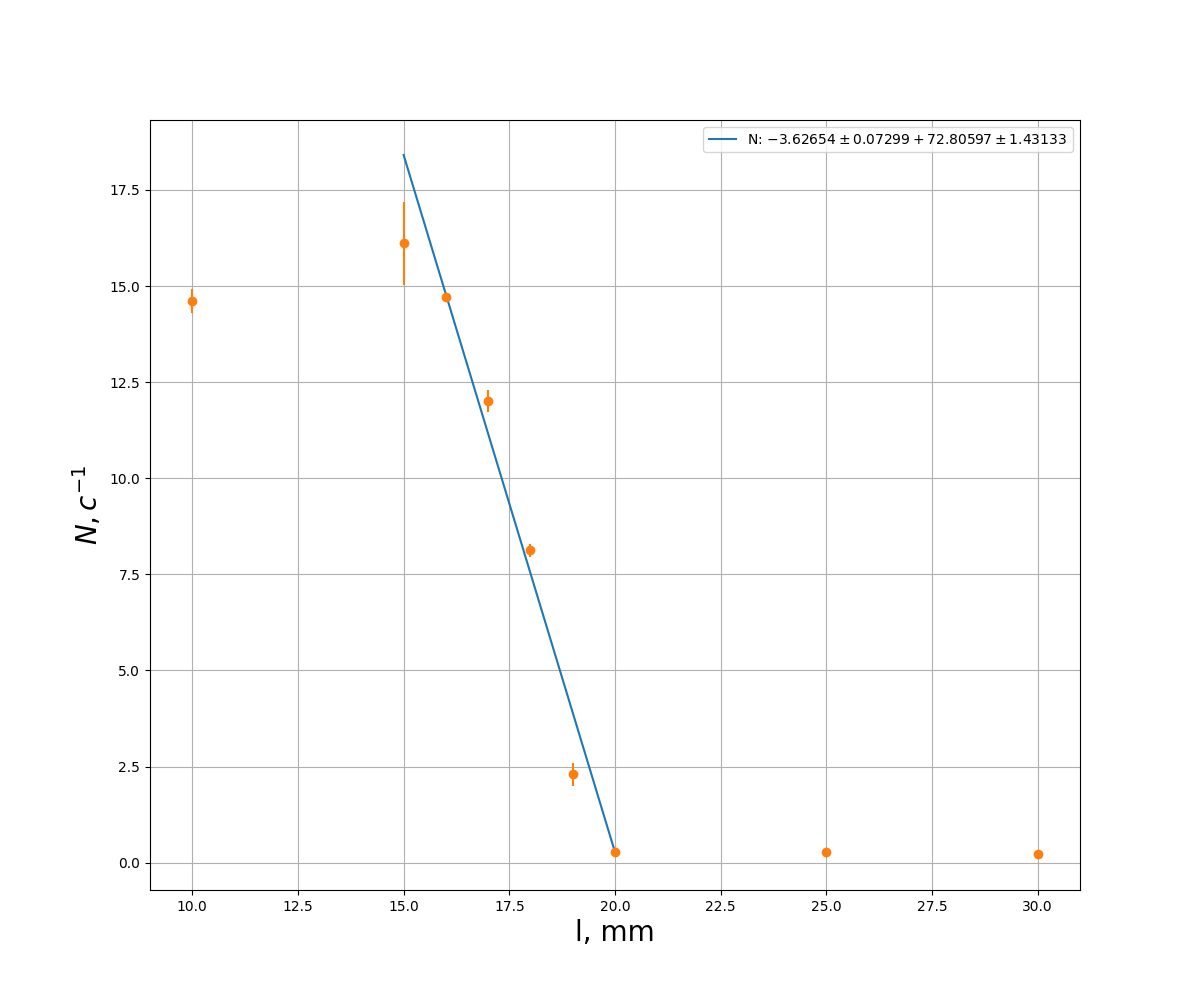
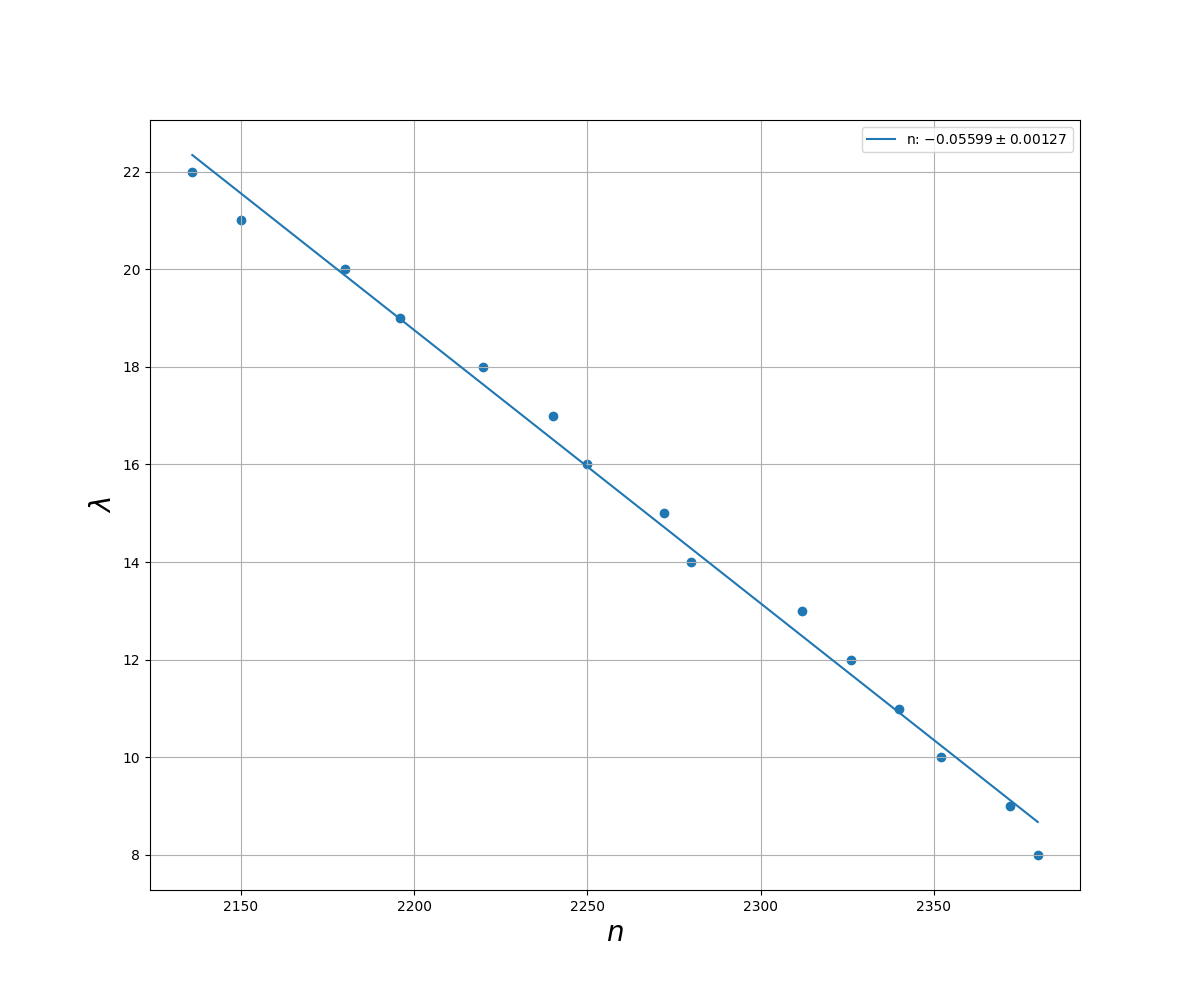
5.1.1

diff --git a/tex/tables/t1.tex b/tex/tables/t1.tex
@@ -1,18 +1,21 @@
 \begin{table}[H]
-    \begin{tabular}{rrr}
-        \toprule
-        $N$                & $\sigma_N$         & $l$                 \\
-        \si[]{\per\second} & \si[]{\per\second} & \si[]{\milli\meter} \\
-        \midrule
-        14.61              & 0.32               & 10                  \\
-        16.11              & 1.08               & 15                  \\
-        14.71              & 0.08               & 16                  \\
-        12.01              & 0.28               & 17                  \\
-        8.12               & 0.17               & 18                  \\
-        2.30               & 0.30               & 19                  \\
-        0.28               & 0.03               & 20                  \\
-        0.28               & 0.03               & 25                  \\
-        0.23               & 0.03               & 30                  \\
-        \bottomrule
-    \end{tabular}
+\begin{tabular}{rrrr}
+\toprule
+$Deg$ & $N$ & $N_left$ & $N_right$ \\
+\si[]{\degree} & \si[]{} & \si[]{} & \si[]{} \\
+\midrule
+0 & 788 & 768 & 792 \\
+10 & 787 & 765 & 794 \\
+20 & 693 & 650 & 702 \\
+30 & 637 & 607 & 660 \\
+40 & 582 & 556 & 597 \\
+50 & 507 & 485 & 527 \\
+60 & 451 & 441 & 470 \\
+70 & 407 & 389 & 418 \\
+80 & 363 & 351 & 381 \\
+90 & 332 & 319 & 340 \\
+100 & 290 & 285 & 300 \\
+110 & 273 & 265 & 281 \\
+\bottomrule
+\end{tabular}
 \end{table}
